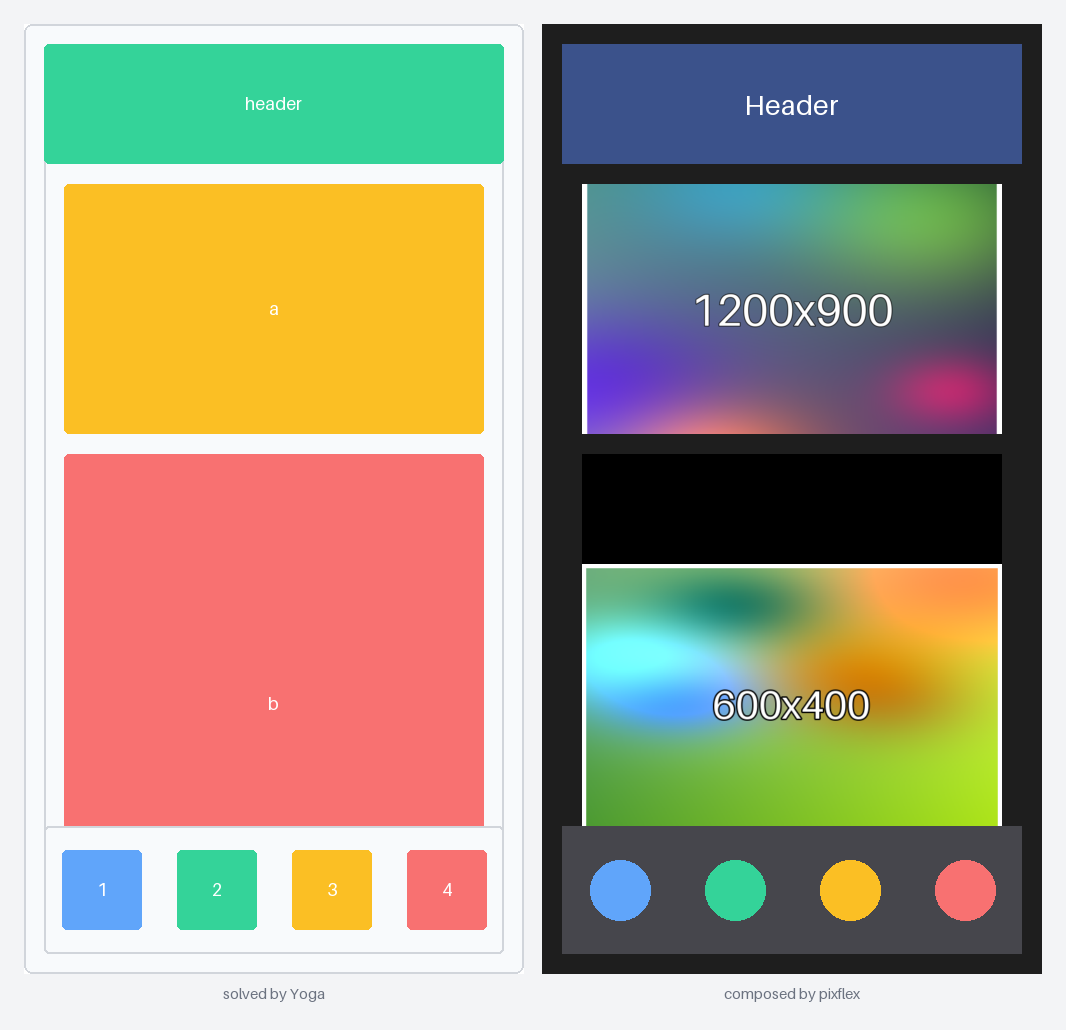
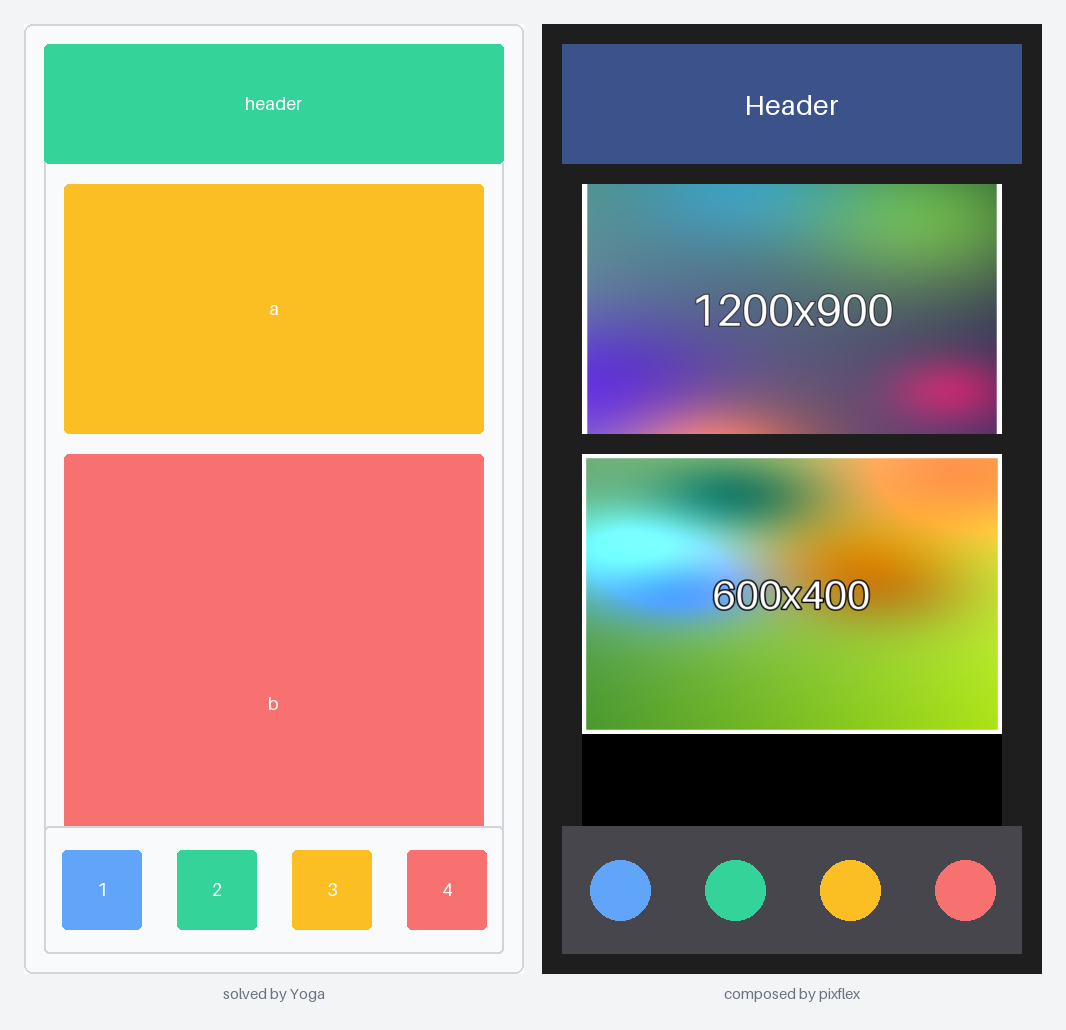
gallery: top-align b in homepage example so the bar doesn't make it look shifted

Changed region(s): [[0.5263, 0.435, 0.9597, 0.8078]]

diff --git a/examples/gallery/examples.py b/examples/gallery/examples.py
@@ -52,7 +52,7 @@ def phone(u: int) -> Box:
         with Column(flex=1, row_gap=10 * u):
             Slot(key="header", height=60 * u)
             Slot(key="a", flex=1, margin_inline=10 * u, fit="cover")
-            Slot(key="b", flex=2, margin_inline=10 * u, fit="contain", background=(0, 0, 0))
+            Slot(key="b", flex=2, margin_inline=10 * u, fit="contain", align="top", background=(0, 0, 0))
             with Row(position="absolute", width="100%", bottom=0, height=64 * u, align_items="center",
                      justify_content="space-around", background=(70, 70, 76)):  # fmt: skip
                 for i in range(1, 5):
@@ -64,8 +64,9 @@ def phone(u: int) -> Box:
     "homepage",
     "The yogalayout.dev homepage layout",
     "The layout from the Yoga homepage, solved once and drawn as a diagram (left), then filled "
-    "with images (right). `a` is `cover` (cropped), `b` is `contain` (letterboxed), the icon bar "
-    "is absolutely positioned.",
+    "with images (right). `a` is `cover` (cropped), `b` is `contain` (letterboxed, aligned to the top), the icon bar "
+    "is absolutely positioned and covers the bottom of `b` exactly as in the diagram: the slot "
+    "extends under the bar, so a centred image would look shifted up or down.",
     uses=("phone",),
 )
 def homepage() -> np.ndarray:

diff --git a/docs/GALLERY.md b/docs/GALLERY.md
@@ -6,7 +6,7 @@ Every image below is produced by pixflex itself: layouts are solved by Yoga, the
 
 ### The yogalayout.dev homepage layout
 
-The layout from the Yoga homepage, solved once and drawn as a diagram (left), then filled with images (right). `a` is `cover` (cropped), `b` is `contain` (letterboxed), the icon bar is absolutely positioned.
+The layout from the Yoga homepage, solved once and drawn as a diagram (left), then filled with images (right). `a` is `cover` (cropped), `b` is `contain` (letterboxed, aligned to the top), the icon bar is absolutely positioned and covers the bottom of `b` exactly as in the diagram: the slot extends under the bar, so a centred image would look shifted up or down.
 
 ![The yogalayout.dev homepage layout](gallery/homepage.png)
 
@@ -19,7 +19,7 @@ def phone(u: int) -> Box:
         with Column(flex=1, row_gap=10 * u):
             Slot(key="header", height=60 * u)
             Slot(key="a", flex=1, margin_inline=10 * u, fit="cover")
-            Slot(key="b", flex=2, margin_inline=10 * u, fit="contain", background=(0, 0, 0))
+            Slot(key="b", flex=2, margin_inline=10 * u, fit="contain", align="top", background=(0, 0, 0))
             with Row(position="absolute", width="100%", bottom=0, height=64 * u, align_items="center",
                      justify_content="space-around", background=(70, 70, 76)):  # fmt: skip
                 for i in range(1, 5):
